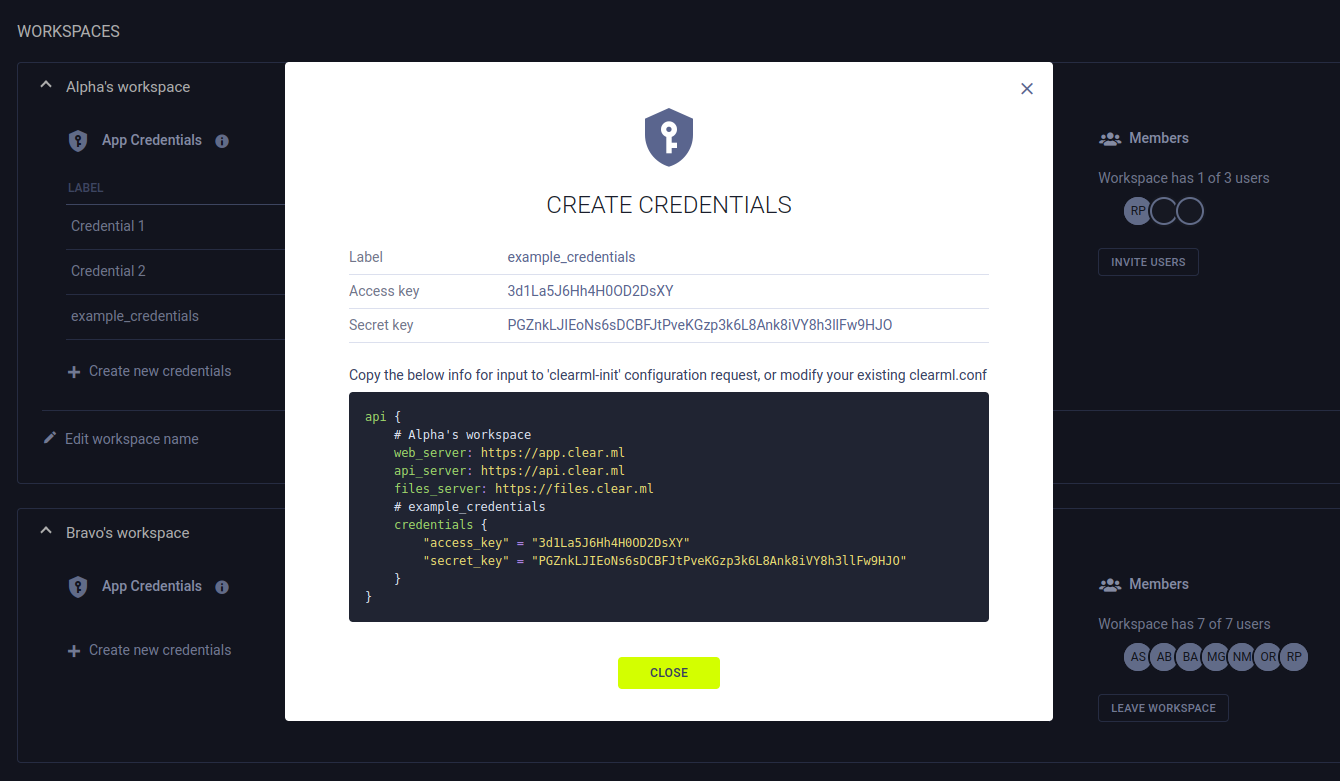
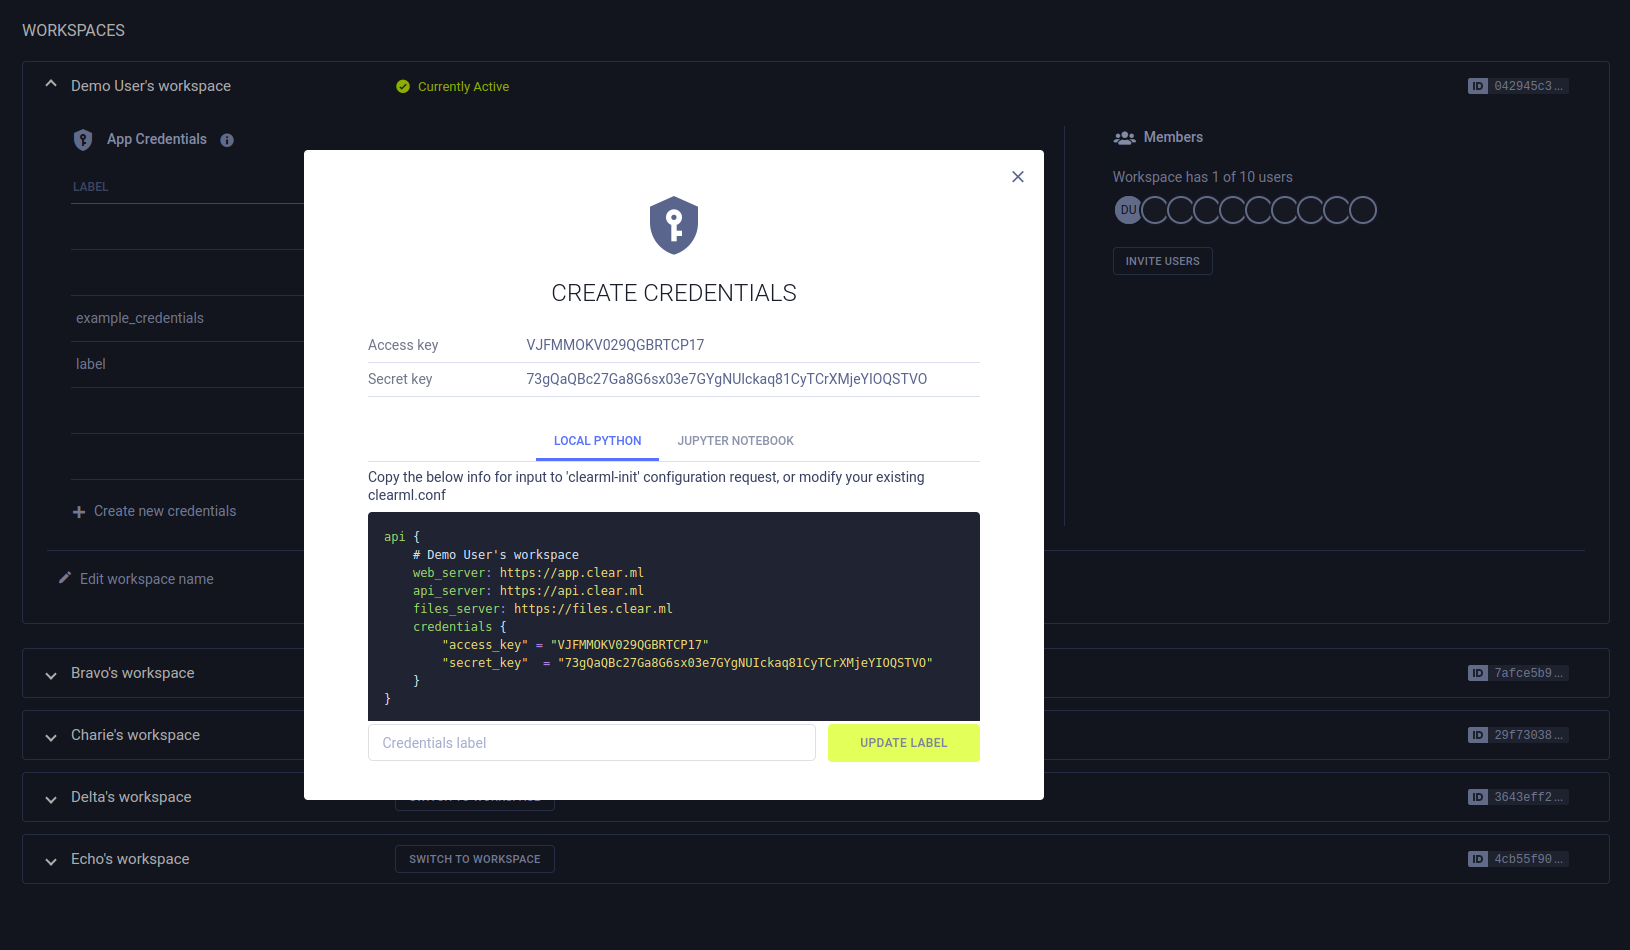
Add clearml credentials for Jupyter Notebook

diff --git a/docs/getting_started/ds/ds_first_steps.md b/docs/getting_started/ds/ds_first_steps.md
@@ -14,6 +14,8 @@ pip install clearml
 ```
 
 ## Connect ClearML SDK to the Server 
+
+### Local Python
 1. Execute the following command to run the ClearML setup wizard:
 
    ```bash
@@ -35,7 +37,10 @@ pip install clearml
    ```
       
 1. Get ClearML credentials. Open the ClearML Web UI in a browser. On the [**SETTINGS > WORKSPACE**](https://app.clear.ml/settings/workspace-configuration) 
-   page, click **Create new credentials** **>** **Copy to clipboard**.
+   page, click **Create new credentials**.
+   
+   The **LOCAL PYTHON** tab shows the data required by the setup wizard (a copy to clipboard action is available on 
+   hover)
     
 1. At the command prompt `Paste copied configuration here:`, copy and paste the ClearML credentials.
    The setup wizard confirms the credentials. 
@@ -74,7 +79,17 @@ pip install clearml
    CLEARML setup completed successfully.
    ```
    
-Now you can integrate ClearML into your code!
+Now you can integrate ClearML into your code! Continue [here](#auto-log-experiment).
+
+### Jupyter Notebook
+To use ClearML with Jupyter Notebook, you need to configure ClearML Server access credentials for your notebook.
+
+1. Get ClearML credentials. Open the ClearML Web UI in a browser. On the [**SETTINGS > WORKSPACE**](https://app.clear.ml/settings/workspace-configuration) 
+   page, click **Create new credentials**. The **JUPYTER NOTEBOOK** tab shows the commands required to configure your 
+   notebook (a copy to clipboard action is available on hover)
+1. Add these commands to your notebook
+
+Now you can use ClearML in your notebook!
 
 ## Auto-log Experiment
 
@@ -99,7 +114,6 @@ Then initialize the Task object in your `main()` function, or the beginning of t
 task = Task.init(project_name='great project', task_name='best experiment')
 ```
 
-Task name is not unique, it's possible to have multiple experiments with the same name.
 If the project does not already exist, a new one will be created automatically.
 
 The console should return the following output:

diff --git a/docs/webapp/webapp_profile.md b/docs/webapp/webapp_profile.md
@@ -70,7 +70,7 @@ to switch to.
 ### ClearML Credentials
 
 Generate ClearML credentials, made up of an access and secret key pair, and insert them into your [configuration file](../configs/clearml_conf.md) 
-to grant the ClearML SDK and the ClearML Agent API access to the server. 
+or Jupyter Notebook to grant the ClearML SDK and the ClearML Agent API access to the server. 
 
 You can create credentials for any workspace that you are a member of. 
 
